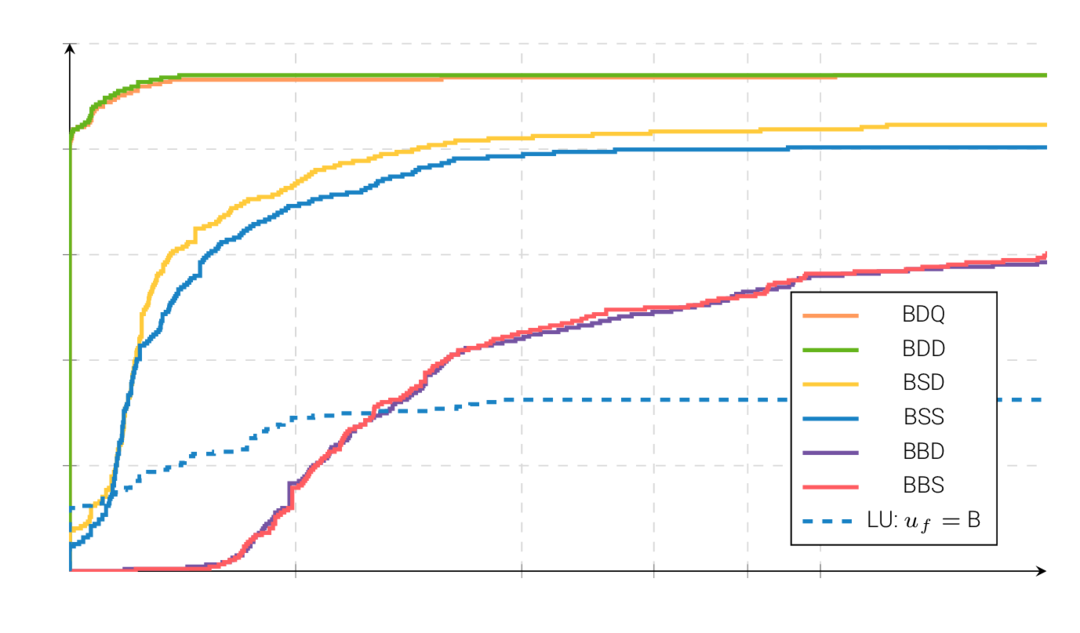
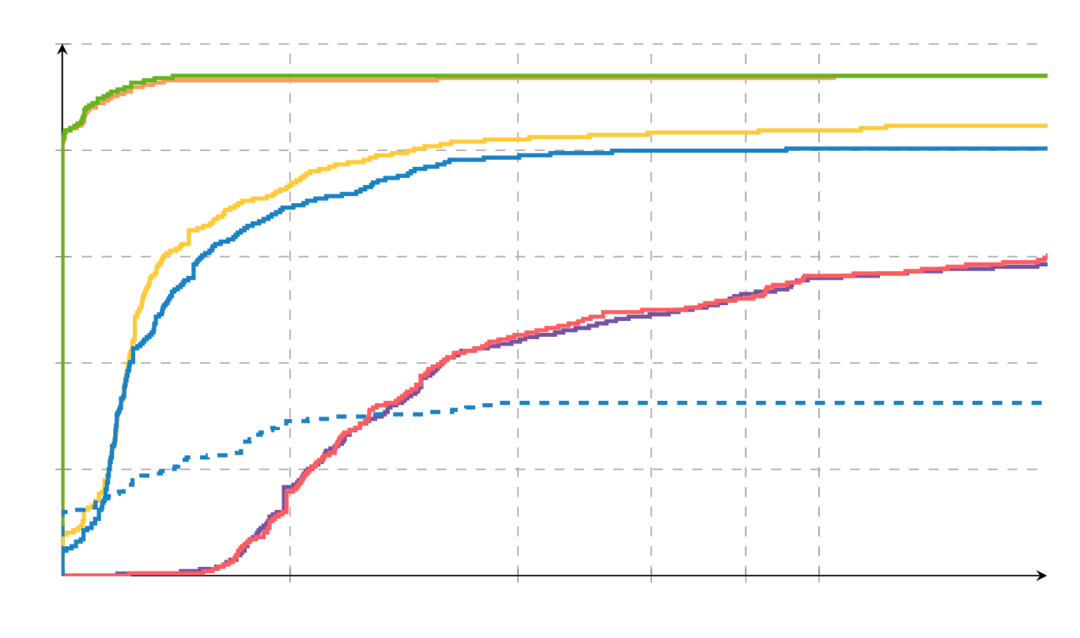
New TeXFantasy add.

diff --git a/_projects/2_project.md b/_projects/2_project.md
@@ -1,0 +1,209 @@
+---
+layout: page
+title: Bar plot
+description: A bar plot representing the memory consumption of three algorithms over different problems. 
+img: assets/img/fig2-front.png
+importance: 1
+category: plots
+---
+
+<div class="row">
+    <div class="col-sm mt-3 mt-md-0">
+        {% include figure.html path="assets/img/fig2.png" class="img-fluid rounded z-depth-1" %}
+    </div>
+</div>
+
+{% highlight latex linenos %}
+
+% Full code on github: https://github.com/bvieuble/TeXFantasy
+% Appears in my article ``Combining sparse approximate factorizations with mixed precision iterative refinement''.
+\begin{tikzpicture} 
+    \begin{axis}
+    [
+        point meta=explicit symbolic,
+        nodes near coords,
+        every node near coord/.append style={font=\normalsize,above},
+        legend style={at={(0.75,0.95)},
+        anchor=north,legend columns=-1},
+        ybar stacked,
+        ymajorgrids,
+        width=1.1\linewidth,
+        height=0.5\linewidth,
+        ylabel={\normalsize Normalized memory by DMUMPS},
+        axis lines=left,
+        x tick label style={font=\normalsize},
+        x tick style={thick},
+        xmin=-0.5,
+        xmax=\nbrowsa-0.5,
+        xtick=data,
+        xticklabels from table={\groupa}{name},
+        xticklabel style={font=\normalsize},
+        every extra x tick/.style={tick style={draw=none},
+                                   xticklabel style={font=\normalsize}
+                                   },
+        ymin=0,
+        ymax=1.6,
+        ytick={0, 0.25, 0.5, 0.75, 1, 2},
+        yticklabels={0, 0.25, 0.5, 0.75, 1, 2},
+        name=axis1,
+        at={(0,0)}
+    ]
+
+        \pgfplotsinvokeforeach{0,...,\nbrowsa-1} 
+        {
+            \node at (axis cs:#1-0.25,0.1) [circle,scale=0.75,draw=none,
+                    fill=blue!0,inner sep=1pt] {D};
+            \node at (axis cs:#1,0.1) [circle,scale=0.75,draw=none,fill=blue!0,
+                    inner sep=1pt] {E};
+            \node at (axis cs:#1+0.25,0.1) [circle,scale=0.75,draw=none,
+                    fill=blue!0,inner sep=1pt] {C};
+        }
+
+        \addplot [fill=myblue-mild,bar width=0.1,
+                  bar shift=-0.05,draw=none,forget plot] 
+                    table[x expr=\coordindex, y=factorss] {\groupa};
+        \addplot [fill=myred-mild,bar width=0.1, 
+                  bar shift=-0.05,draw=none,forget plot] 
+                    table[x expr=\coordindex, y=actives] {\groupa};
+        \resetstackedplots
+        \addplot [fill=myblue-mild,bar width=0.1,
+                  bar shift=0.05,draw=none,forget plot] 
+                    table[x expr=\coordindex, y=factorsd] {\groupa};
+        \addplot [fill=mygreen-mild,bar width=0.1, 
+                  bar shift=0.05,draw=none] 
+                    table[x expr=\coordindex, y=krylov] {\groupa};
+        \addplot [fill=mygreen-mild,bar width=0.1, 
+                  bar shift=0.05,draw=none,forget plot] 
+                    table[x expr=\coordindex, y=aq,meta=max-kry] {\groupa};
+
+        \resetstackedplots
+
+        \addplot [fill=myblue-mild,bar width=0.2,draw=none,forget plot,
+                  bar shift=-0.25] 
+                    table[x expr=\coordindex,y=factorss] {\groupa};
+        \addplot [fill=mygreen-mild,bar width=0.1,draw=none,forget plot,
+                  bar shift=-0.2] 
+                    table[x expr=\coordindex,y=aq] {\groupa};
+        \resetstackedplots
+        \addplot [fill=myblue-mild,bar width=0.2,draw=none,forget plot,
+                  bar shift=-0.25] 
+                    table[x expr=\coordindex,y=factorss] {\groupa};
+        \addplot [fill=myred-mild,bar width=0.1, 
+                  bar shift=-0.3,draw=none,forget plot] 
+                    table[x expr=\coordindex,y=actives] {\groupa};
+
+        \resetstackedplots
+
+        \addplot [fill=myblue-mild,bar width=0.2,draw=none,
+                  bar shift=0.25] 
+                    table[x expr=\coordindex,y=factorsd] {\groupa};
+        \addplot [fill=myred-mild,bar width=0.1,draw=none,
+                  bar shift=0.2] 
+                    table[x expr=\coordindex,y=actived] {\groupa};
+        \resetstackedplots
+        \addplot [fill=myblue-mild,bar width=0.2,draw=none,forget plot,
+                  bar shift=0.25] 
+                    table[x expr=\coordindex,y=factorsd] {\groupa};
+        \addplot [fill=mygreen-mild,bar width=0.1,draw=none,
+                  bar shift=0.3] 
+                    table[x expr=\coordindex,y=aq] {\groupa};
+
+        \legend{Krylov, Factors, Active, $A_q$}
+    \end{axis}
+
+    \begin{axis}
+    [
+        point meta=explicit symbolic,
+        nodes near coords,
+        legend style={at={(0.8,0.95)},
+        anchor=north,legend columns=-1},
+        every node near coord/.append style={font=\normalsize,above},
+        ybar stacked,
+        ymajorgrids,
+        width=1.1\linewidth,
+        height=0.5\linewidth,
+        ylabel={\normalsize Normalized memory by DMUMPS},
+        axis lines=left,
+        x tick label style={font=\normalsize},
+        x tick style={thick},
+        xmin=-0.5,
+        xmax=\nbrowsb-0.5,
+        xtick=data,
+        xticklabels from table={\groupb}{name},
+        xticklabel style={font=\normalsize},
+        ymin=0,
+        ymax=1.6,
+        ytick={0, 0.25, 0.5, 0.75, 1, 2},
+        yticklabels={0, 0.25, 0.5, 0.75, 1, 2},
+        name=axis2,
+        at={(0,-0.45\linewidth)}
+    ]
+
+        \pgfplotsinvokeforeach{0,...,\nbrowsb-1} {
+            \node at (axis cs:#1-0.25,0.1) [circle,scale=0.75,draw=none,
+                    fill=blue!0,inner sep=1pt] {D};
+            \node at (axis cs:#1,0.1) [circle,scale=0.75,draw=none,fill=blue!0,
+                    inner sep=1pt] {E};
+            \node at (axis cs:#1+0.25,0.1) [circle,scale=0.75,draw=none,
+                    fill=blue!0,inner sep=1pt] {C};
+        }
+
+        \addplot [fill=myblue-mild,bar width=0.1,
+                  bar shift=-0.05,draw=none,forget plot] 
+                    table[x expr=\coordindex, y=factorss] {\groupb};
+        \addplot [fill=myred-mild,bar width=0.1, 
+                  bar shift=-0.05,draw=none,forget plot] 
+                    table[x expr=\coordindex, y=actives] {\groupb};
+        \resetstackedplots
+        \addplot [fill=myblue-mild,bar width=0.1,
+                  bar shift=0.05,draw=none,forget plot] 
+                    table[x expr=\coordindex, y=factorsd] {\groupb};
+        \addplot [fill=mygreen-mild,bar width=0.1, 
+                  bar shift=0.05,draw=none,forget plot] 
+                    table[x expr=\coordindex, y=krylov] {\groupb};
+        \addplot [fill=mygreen-mild,bar width=0.1, 
+                  bar shift=0.05,draw=none,forget plot] 
+                    table[x expr=\coordindex, y=aq, meta=max-kry] {\groupb};
+
+        \resetstackedplots
+
+        \addplot [fill=myblue-mild,bar width=0.2,draw=none,forget plot,
+                  bar shift=-0.25] 
+                    table[x expr=\coordindex,y=factorss] {\groupb};
+        \addplot [fill=mygreen-mild,bar width=0.1,draw=none,forget plot,
+                  bar shift=-0.2] 
+                    table[x expr=\coordindex,y=aq,meta=meta] {\groupb};
+        \resetstackedplots
+        \addplot [fill=myblue-mild,bar width=0.2,draw=none,forget plot,
+                  bar shift=-0.25] 
+                    table[x expr=\coordindex,y=factorss] {\groupb};
+        \addplot [fill=myred-mild,bar width=0.1, 
+                  bar shift=-0.3,draw=none,forget plot] 
+                    table[x expr=\coordindex,y=actives] {\groupb};
+
+        \resetstackedplots
+
+        \addplot [fill=myblue-mild,bar width=0.2,draw=none,
+                  bar shift=0.25] 
+                    table[x expr=\coordindex,y=factorsd] {\groupb};
+        \addplot [fill=myred-mild,bar width=0.1,draw=none,
+                  bar shift=0.2] 
+                    table[x expr=\coordindex,y=actived] {\groupb};
+        \resetstackedplots
+        \addplot [fill=myblue-mild,bar width=0.2,draw=none,forget plot,
+                  bar shift=0.25] 
+                    table[x expr=\coordindex,y=factorsd] {\groupb};
+        \addplot [fill=mygreen-mild,bar width=0.1,draw=none,
+                  bar shift=0.3] 
+                    table[x expr=\coordindex,y=aq] {\groupb};
+    \end{axis}
+
+    \node[rectangle,draw,inner sep=1pt] at (2,3.75) (box) 
+        {\small
+        \begin{tabular}{l}
+            \small C: LU, $u_f$=\textsc{d} \\
+            \small D: LU, $u_f$=\textsc{s} \\
+            \small E: GMRES, $u_f$=\textsc{s}
+        \end{tabular}};
+\end{tikzpicture}
+{% endhighlight %}

diff --git a/_projects/1_project.md b/_projects/1_project.md
@@ -1,22 +1,22 @@
 ---
 layout: page
 title: Performance profile
-description: A performance profile figure comparing the number of iterations of seven algorithms.
+description: A performance profile plot comparing the number of iterations of seven algorithms. 
 img: assets/img/fig1-front.png
 importance: 1
-category: figures
+category: plots
 ---
 
 <div class="row">
     <div class="col-sm mt-3 mt-md-0">
-        {% include figure.html path="assets/img/fig1.png" title="example image" class="img-fluid rounded z-depth-1" %}
+        {% include figure.html path="assets/img/fig1.png" class="img-fluid rounded z-depth-1" %}
     </div>
 </div>
 
+{% highlight latex linenos %}
 
-{% raw %}
-```latex
 % Full code on github: https://github.com/bvieuble/TeXFantasy
+% Appears in my article ``Five-Precision GMRES-based iterative refinement''.
 \begin{tikzpicture}
     \begin{axis}
     [
@@ -30,17 +30,11 @@ category: figures
         xlabel=$\alpha$,
         xtick={2, 4, 6, 8, 10},
         xticklabels={2, 4, 6, 8, 10},
-        x tick label style={/pgf/number format/fixed,
-                            /pgf/number format/fixed zerofill,
-                            /pgf/number format/precision=1},
         axis y line=middle,
         ymin= 0.,
         ymax= 1.,
         y label style={at={(axis description cs:-0.06,0.5)},rotate=90,anchor=south},
         ylabel=$\phi$,
-        y tick label style={/pgf/number format/fixed,
-                            /pgf/number format/fixed zerofill,
-                            /pgf/number format/precision=1},
         ytick={0.2, 0.4, 0.6, 0.8, 1},
         yticklabels={0.2, 0.4, 0.6, 0.8, 1},
         grid = major,
@@ -49,7 +43,6 @@ category: figures
 
         \addplot[const plot mark mid,
                  solid,
-                 every mark/.append style={solid, fill=myorange, fill opacity=0.2},
                  color=myorange,
                  very thick
                  ] 
@@ -57,7 +50,6 @@ category: figures
 
         \addplot[const plot mark mid,
                  solid,
-                 every mark/.append style={solid, fill=mygreen, fill opacity=0.2},
                  color=mygreen,
                  very thick
                  ] 
@@ -65,7 +57,6 @@ category: figures
 
         \addplot[const plot mark mid,
                  solid,
-                 every mark/.append style={solid, fill=myyellow, fill opacity=0.2},
                  color=myyellow,
                  very thick
                  ] 
@@ -73,7 +64,6 @@ category: figures
 
         \addplot[const plot mark mid,
                  solid,
-                 every mark/.append style={solid, fill=myblue, fill opacity=0.2},
                  color=myblue,
                  very thick
                  ] 
@@ -81,7 +71,6 @@ category: figures
 
         \addplot[const plot mark mid,
                  solid,
-                 every mark/.append style={solid, fill=mypurple, fill opacity=0.2},
                  color=mypurple,
                  very thick,
                  ] 
@@ -89,7 +78,6 @@ category: figures
 
         \addplot[const plot mark mid,
                  solid,
-                 every mark/.append style={solid, fill=myred, fill opacity=0.2},
                  color=myred,
                  very thick,
                  ] 
@@ -97,7 +85,6 @@ category: figures
 
         \addplot[const plot mark mid,
                  dashed,
-                 every mark/.append style={solid, fill=myblue, fill opacity=0.2},
                  color=myblue,
                  very thick,
                  ] 
@@ -106,6 +93,4 @@ category: figures
         \legend{BDQ, BDD, BSD, BSS, BBD, BBS, LU: $u_f=$ B}
     \end{axis}
 \end{tikzpicture}
-```
-{% endraw %}
-
+{% endhighlight %}

diff --git a/_pages/projects.md b/_pages/projects.md
@@ -5,7 +5,7 @@ permalink: /projects/
 description: Gallery of my LaTeX figures and tables.
 nav: true
 nav_order: 2
-display_categories: [figures,tables]
+display_categories: [plots,tables]
 horizontal: false
 ---
 
